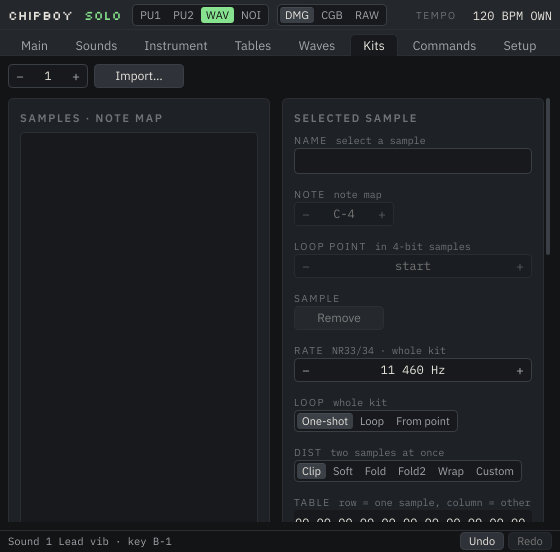
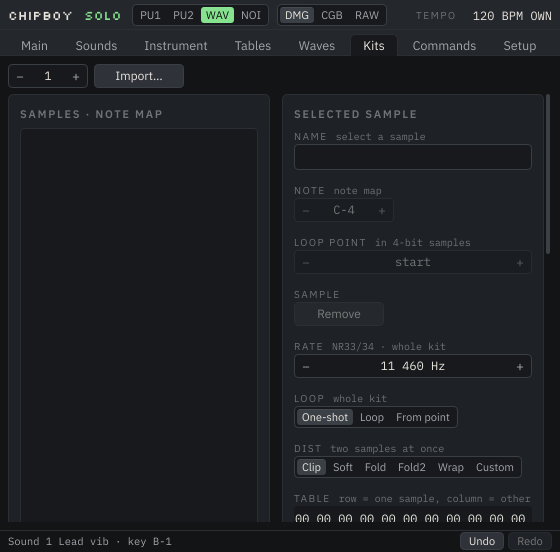
Solo: the compact Kits page without the list header's spare height
Claude-Session: https://claude.ai/code/session_017xjfhsuF4KGRWmf3FzZwSg

diff --git a/Source/plugin/main/panels/KitsPanel.cpp b/Source/plugin/main/panels/KitsPanel.cpp
@@ -480,7 +480,7 @@ void KitsPanel::resized()
     auto area = getLocalBounds();
     list_.setVisible(!compact); listTitle_.setVisible(!compact); slotStepper_.setVisible(compact);
     if (compact) {
-        auto top = area.removeFromTop(kListHeader).withHeight(Stepper::kHeight);
+        auto top = area.removeFromTop(Stepper::kHeight);   // no list title: the row is the stepper's height
         slotStepper_.setBounds(top.removeFromLeft(slotStepper_.preferredWidth()));
         top.removeFromLeft(6);
         importBtn_.setBounds(top.removeFromLeft(90));

diff --git a/docs/HANDOFF.md b/docs/HANDOFF.md
@@ -139,7 +139,8 @@ state file is `ChipBoy.settings` under the app-data folder (`%APPDATA%\ChipBoy` 
   reduced to the range and the note (the recall is the status line's), and a **Stop**
   button on the Main page (every note off, the pedal too; `stopNotes`, checked), a
   **Bend range** parameter (`Driver::setBendRange`, 2 st unless set; checked) with the
-  Setup page's files on one row to make room for it.
+  Setup page's files on one row to make room for it; the compact Kits page without the
+  list header's spare height.
 - **A record-test flake fixed on the way** (§226 amendment): a message for a row already
   fitted opened a second take and its finish cleared the row; a second take now re-fits
   the row over the union of both takes' messages. The groove cases record the same with
